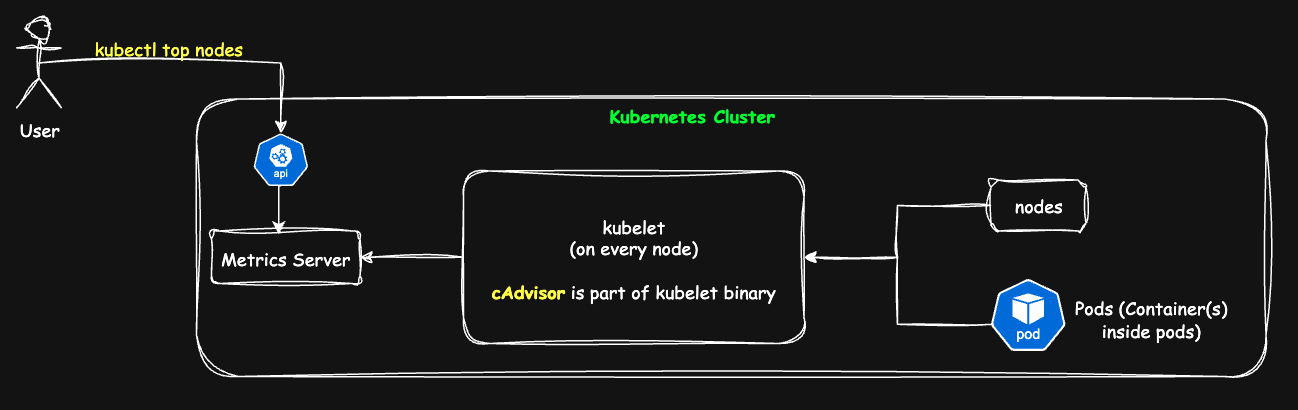
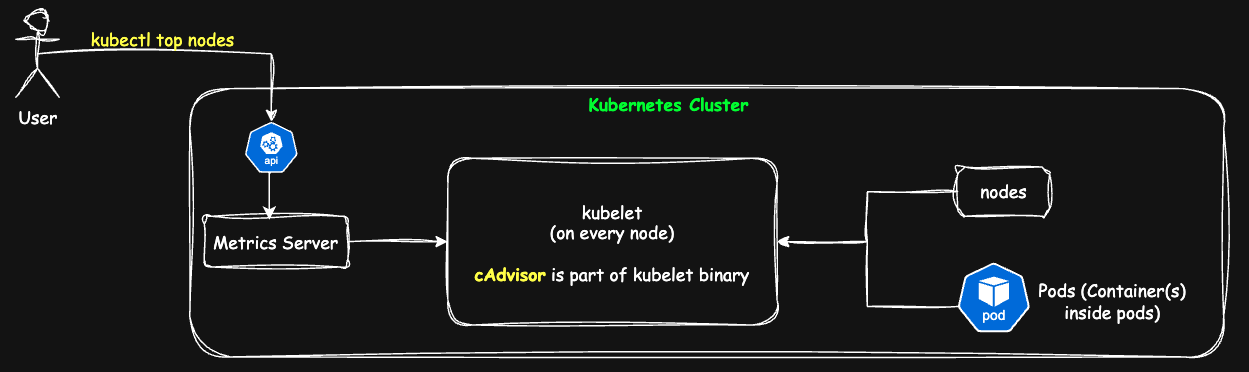
Updated Lecture 12

diff --git a/Lecture 12/README.md b/Lecture 12/README.md
@@ -2,11 +2,6 @@
 
 ---
 
-### **Introduction**
-Welcome to Day 21! Today, we explore **multi-container pods**, an essential Kubernetes concept that enables closely integrated containers to collaborate efficiently. While pods can contain just one container, Kubernetes allows **multi-container pods**, which often include a primary container complemented by one or more helper containers. These help extend functionality or enhance the environment for the main application.
-
----
-
 
 ## Introduction  
 
@@ -170,27 +165,33 @@ error: Metrics API not available.
 
 ---
 
-## **How Kubernetes Collects Metrics**  
+## **How Kubernetes Collects “kubectl top” Metrics**
 
 ![Alt text](/images/11e.png)
 
-To understand how **kubectl top nodes** retrieves resource metrics, let's break down the process:  
+1. **cAdvisor (in kubelet) samples usage**
 
-1. **cAdvisor Collects Metrics**  
-   - The **cAdvisor** (Container Advisor) component, running inside the kubelet, collects CPU, memory, filesystem, and network usage metrics from nodes and pods.  
-   - cAdvisor exposes these metrics via a **REST API**.  
+   * cAdvisor is built into the **kubelet** and measures **CPU, memory, FS, network** for **pods/containers/nodes**.
+   * Kubelet exposes these as a **summary API** at `/stats/summary`.
 
-2. **Kubelet Gathers and Exposes Metrics**  
-   - The **kubelet** on each node queries cAdvisor and exposes the collected metrics via its own API.  
+2. **Metrics Server scrapes kubelets**
 
-3. **Metrics Server Aggregates Data from Kubelet**  
-   - The **Metrics Server** fetches data from the kubelet's API, which in turn gathers data from cAdvisor.  
-   - This enables cluster-wide **resource usage monitoring** of nodes, pods, and containers.  
+   * **metrics-server** periodically **scrapes each kubelet’s `/stats/summary`** over TLS.
+   * It keeps only **recent, in-memory** samples (no history/TSDB), and serves the **`metrics.k8s.io`** API.
 
-4. **API Server Serves the Metrics**  
-   - When we run `kubectl top nodes`, the **kubectl client requests the API Server** to fetch the latest resource usage from the **Metrics Server**.  
+3. **API server aggregation layer publishes the API**
 
+   * The **API server’s aggregation layer** mounts metrics-server under the **`/apis/metrics.k8s.io/`** group.
 
+4. **kubectl top queries `metrics.k8s.io`**
+
+   * `kubectl top nodes|pods` → hits the API server → **proxied to metrics-server** → returns the latest CPU/Memory usage.
+
+**Notes**
+
+* This pipeline is **for live resource usage only** (not historical). Use **Prometheus** for long-term metrics.
+* metrics-server **doesn’t scrape Prometheus endpoints**; it reads **kubelet summaries**.
+* If metrics-server is missing or blocked (RBAC/network), `kubectl top` returns **no metrics**.
 
 ---
 
